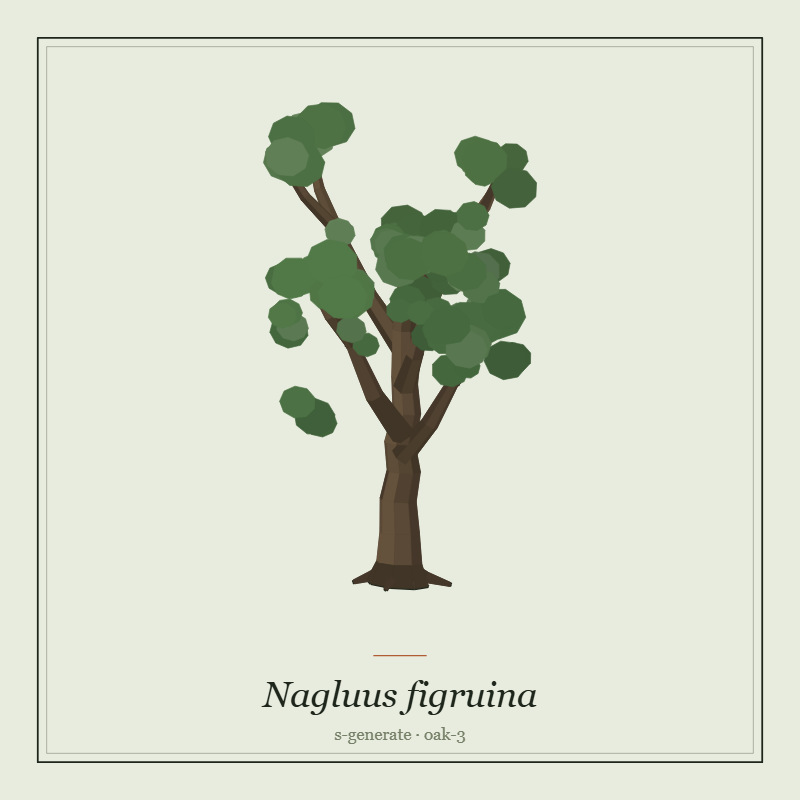
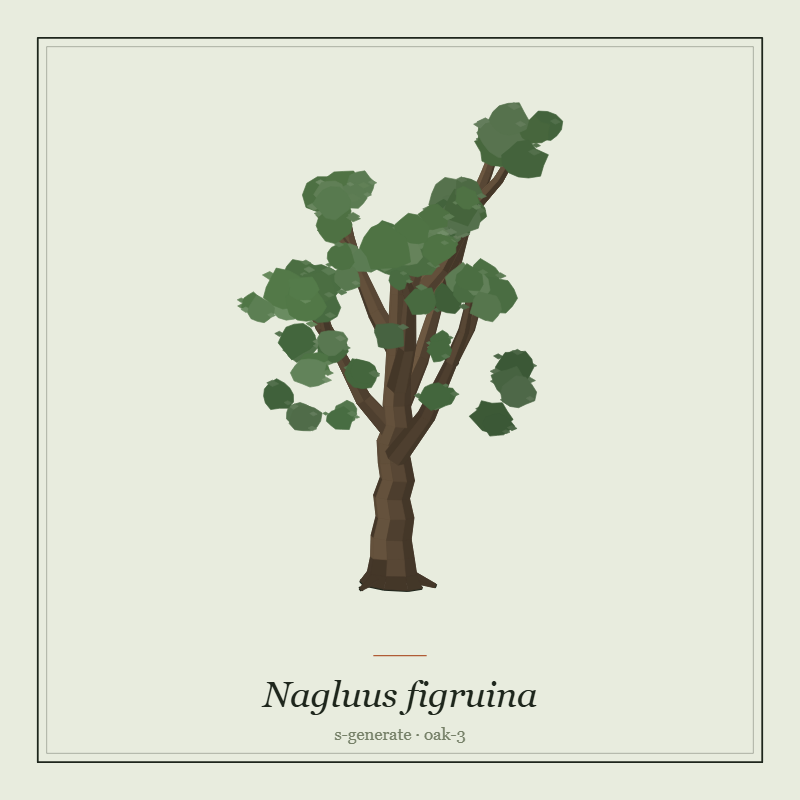
fix: ствол не рвётся на изгибе у камня
Кадр кольца трубы строился от «верха» [0,1,0]. На изгибе круче ~80°
этот верх перескакивал на 90°, соседние кольца перекручивались, и в
створе появлялся разлом — особенно заметный у кривой сосны на камне.
Теперь кадр переносится с предыдущего кольца (parallel transport):
труба поворачивается вместе с осью, без рывков. Касается всех труб —
ствола, веток, корней.

Changed region(s): [[0.2812, 0.125, 0.7188, 0.75]]

diff --git a/src/model/tree.js b/src/model/tree.js
@@ -125,12 +125,26 @@ export function buildTree(options = {}) {
    * @param {number} sides
    */
   function addTube(points, radii, color, sides) {
+    // Кадр кольца переносится с предыдущего кольца (parallel transport).
+    // Если каждый раз строить его от «верха» [0,1,0], то на крутом изгибе
+    // кадр перескакивает на 90° и труба выворачивается — в стволе появляется
+    // разлом. Перенос поворачивает кадр вместе с осью, без рывков.
+    let frame = null;
+
     const rings = points.map((point, index) => {
       const before = points[Math.max(0, index - 1)];
       const after = points[Math.min(points.length - 1, index + 1)];
       const tangent = normalize(sub(after, before));
       const helper = Math.abs(tangent[1]) > 0.9 ? [1, 0, 0] : [0, 1, 0];
-      const u = normalize(cross(tangent, helper));
+
+      if (!frame) {
+        frame = normalize(cross(tangent, helper));
+      } else {
+        frame = normalize(sub(frame, scale(tangent, dot(frame, tangent))));
+        if (length(frame) < 1e-9) frame = normalize(cross(tangent, helper));
+      }
+
+      const u = frame;
       const v = normalize(cross(tangent, u));
       const radius = radii[index];
 

diff --git a/test/tree.test.js b/test/tree.test.js
@@ -30,6 +30,20 @@ test('кустарник ниже дерева и состоит из неско
   assert.ok(shrub.polys.length > 100);
 });
 
+test('ствол кривого дерева не рвётся: вершины конечны', () => {
+  for (const seed of ['rock', 'demo', 'aaa', 'ccc']) {
+    const tree = buildTree({ seed, habit: 'crooked' });
+
+    for (const poly of tree.polys) {
+      for (const point of poly.pts) {
+        for (const value of point) {
+          assert.ok(Number.isFinite(value), `${seed}: ${value}`);
+        }
+      }
+    }
+  }
+});
+
 test('все цвета дерева валидны', () => {
   const tree = buildTree({ seed: 'tree-colors' });
 
